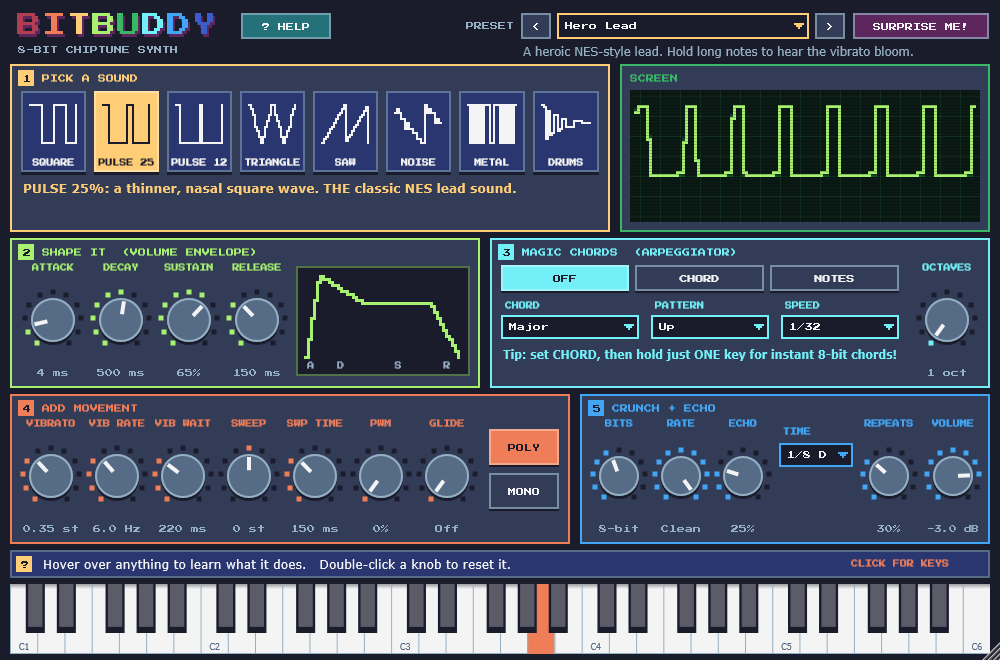
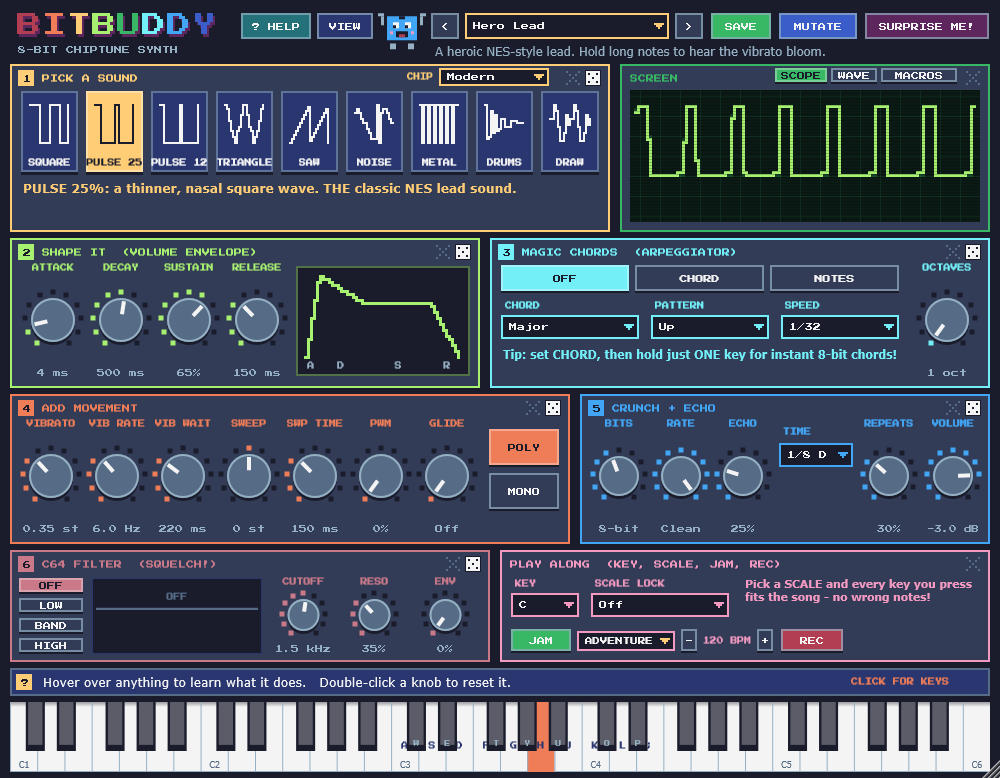
BitBuddy 1.1.0: docs, reports, release settings
- Version 1.1.0 (CMake, Android project, versionCode 110)
- Release job now waits for all four platforms (iOS added)
- Beginner's Guide "New in 1.1", README features + layout, release notes,
  share-package READ ME tips, workflow notes (timeline, gotchas, 1.1 cleanup)
- install-plugin.ps1 also installs the app + a Start-menu shortcut
- Reports: 77/77 audio, 10/10 focus + layout, pluginval L10 OK, 0 warnings

diff --git a/docs/WORKFLOW-NOTES.md b/docs/WORKFLOW-NOTES.md
@@ -37,6 +37,18 @@ criteria, and a reusable checklist so the *next* audio-plugin project starts fas
 | 26 | Android: `android/BitBuddy.jucer` (JUCE CMake can't do Android) | Projucer → Gradle APK in CI + Android 14 emulator smoke test; zero permissions | – |
 | 27 | iOS: CMake Xcode build, AUv3 + app | CI simulator build + iPad simulator smoke test (device install needs an Apple account) | – |
 | 28 | App icon + touch UI (tap = help, fit-to-screen) | one `assets/icon.png` for all platforms | – |
+| 29 | CI fixes: Projucer `useAppConfig="0"`, Android launch activity, iOS app path; macOS runner capacity re-runs | **v1.0.1 released** on all 4 platforms (Windows/Mac zips + APK) | GitHub Mac runners failed to start twice (capacity, not code) |
+| 30 | 1.1 on a feature branch (release stays as tested) | user: "build all of these in the order you best see fit" | – |
+| 31 | Scale Lock + Smart chords (`Scales.h`, key→note map in the engine) | 52/52; static_asserts on the music theory | test expectation wrong once (B→C, not A, in A minor penta) |
+| 32 | Piano shows the scale + computer-key letters | snapshot review | – |
+| 33 | My Presets, per-section dice, MUTATE | 56/56 | – |
+| 34 | C64 filter (TPT SVF + envelope) as a self-contained `Box` | 61/61 | – |
+| 35 | DRAW wave, console modes, macros | 64 → 68 → 74/74 | NES-triangle test window too early (test bug) |
+| 36 | RECORD (WAV + MIDI) + JAM band | 75 → 77/77 | crash cymbal needs ~4 s to fade (test window) |
+| 37 | BIT mascot + 4 colour themes (palette swap + live rebuild) | theme snapshots | – |
+| 38 | User asked mid-way: hideable / movable boxes + VIEW menu | every section → `Box`; flow layout; window reshapes; layout saved | a PowerShell edit script carried on after an exception and deleted 141 lines (rebuilt from context; §4) |
+| 39 | Cleanup + efficiency pass (§8b) | idle back to 1.0 speed, 3 save/load paths → 1, 0 warnings | benchmark noise from other apps (§4) |
+| 40 | Mutation tests on the new code | 2/2 caught (drawing overwritten → 1 FAIL; knob changes ignored → 9 FAIL) | – |
 
 ---
 
@@ -65,6 +77,11 @@ These would have removed guesswork or round-trips. Ask them in **one** message, 
     for after the Windows build. Knowing up front means touch-friendly UI, an app icon, and CI from day one.
 14. **Public or private repo, and do you have an Apple Developer account ($99/yr) or an Android phone?**
     Decides CI cost (macOS minutes are 10× on private repos), the license, and whether iOS can be shared.
+15. **Fixed layout or customisable?** Hideable / movable boxes were asked for after 9 features were built
+    with absolute positions; every section had to be turned into a box. Building sections as self-contained
+    components from day one makes this nearly free.
+16. **Which features belong in the app only?** (Jam, Record: a DAW already has tracks and recording.)
+    Decide before the UI is laid out, so the plugin view doesn't show dead controls.
 
 ---
 
@@ -151,6 +168,25 @@ These would have removed guesswork or round-trips. Ask them in **one** message, 
   `build-ios/BitBuddy_artefacts/<config>/Standalone/BitBuddy.app` (no `iphonesimulator` in the path).
 - **macOS runners can fail to start** ("not acquired by Runner … even after multiple attempts" = GitHub
   capacity, not your code). Just re-run; check the job's annotations before debugging anything.
+- **PowerShell 5.1 mangles double quotes in native-command arguments** (`git commit -m "... \"x\" ..."`
+  became stray pathspecs). Write the message to a file and use `git commit -F file`.
+- **PowerShell variables are case-insensitive:** a loop variable `$h` silently overwrote `$H` (the home folder).
+- **`System.Web.Script.Serialization` dictionaries need `.ContainsKey()`** in PowerShell (`.Contains()` is an
+  explicit interface member and fails).
+- **A script that edits files must stop on the first error** (`$ErrorActionPreference = 'Stop'` or an explicit
+  `throw`): one carried on after a missing input file and replaced 141 lines with nothing. Recovered because
+  the lines had just been read; otherwise `git checkout` the file.
+- **Benchmarks are noisy when other apps are busy:** compare a change against a reference scenario measured in
+  the *same* run (here: idle), and repeat 2-3 times before believing a 10% difference.
+- **Test the plugin as the app:** `AudioProcessor::setTypeOfNextNewPlugin (wrapperType_Standalone)` before
+  constructing the processor shows app-only UI (JAM / REC) in snapshots and UI tests.
+- **Tests must not touch the user's settings:** BitBuddy's settings file (theme, layout) has a test override
+  (`bb::useSettingsFile`).
+- **After changing the version, delete `build/BitBuddy_artefacts/JuceLibraryCode/BitBuddy_resources.rc`:** JUCE
+  doesn't regenerate the Windows version resource, so the exe's file properties kept saying 1.0.1 (the plugin
+  code and VST3 moduleinfo did say 1.1.0). Clean CI builds are fine.
+- **A desktop test window's native title bar skews its outer size** under a fixed aspect ratio; check the
+  constrainer's ratio instead of the window size.
 - **Projucer's Android defaults request INTERNET, READ_MEDIA_*, storage and notification permissions.**
   Turn off `androidInternetNeeded`, `androidReadMedia*Permission`, `androidExternalWriteNeeded`,
   `androidPushNotifications` → zero permissions.
@@ -237,6 +273,8 @@ For instruments, add an interaction test for the main play loop from day one.
 | pluginval L10 | **SUCCESS** (16 s) | |
 | After cleanup pass | **46 / 46**, focus 9/9, pluginval OK | `docs/reports/` |
 | Mutation | **3 / 3 caught** | |
+| 1.1 (all features + cleanup) | **77 / 77**, focus + layout 10/10, 0 warnings | `docs/reports/` |
+| 1.1 mutation | **2 / 2 caught** | |
 
 Root causes of the run-1 failures:
 
@@ -315,18 +353,25 @@ mutant (naive idle) → echo −120 dB = FAIL; fix (stay awake for the echo's fu
 Not done (on purpose): dropping the static C++ runtime (+~0.3 MB, but needed so it runs on any PC);
 disabling JUCE's hidden MIDI-CC parameters (needed for mod wheel / pitch bend in VST3).
 
-## 9. Fun-factor ideas (ranked by fun per effort)
+### 8b. 1.1 cleanup + efficiency pass
 
-1. **Scale Lock + Smart Chords**: every key snaps to a chosen key/scale (no wrong notes), and CHORD mode
-   picks major/minor automatically per scale degree (A → Am, F → F...). Small effort, big beginner payoff.
-2. **Jam Mode**: a built-in drums + bass + chords loop in the standalone to noodle a melody over.
-3. **Record button**: save what you played in the standalone as WAV + MIDI (no DAW needed).
-4. **Draw your own wave**: Game Boy "wave channel": draw a 32-step waveform on the SCREEN.
-5. **Instrument macros**: FamiTracker-style volume / arpeggio / pitch / duty sequences drawn as bars.
-6. **My Presets + per-section dice + Mutate** (nudge a sound instead of fully randomising).
-7. **C64 SID-style resonant filter** for squelchy basses.
-8. **Visual fun**: letter labels on the piano keys, a pixel mascot that dances to the notes, Game Boy-green / CRT themes.
-9. **Console modes**: NES / Game Boy / C64 voicing presets with each chip's limits.
+| Metric | Before (1.1 features done) | After | How |
+|---|---|---|---|
+| Idle, no notes | 2,829× real time (0.035 %) | **~3,800×** (0.026 %, = 1.0.1) | engine settings re-read only when a knob / drawing / macro / tempo changes (parameter listener + dirty flag) instead of every block |
+| 8-voice chords | ~108× (relative to idle) | ~15 % faster | one chord-shape lookup, a plain fast path (no chip mode, no macros), macro stepping moved out of line |
+| Save / load of drawings + macros | 3 hand-written copies (project, your presets, factory presets) | **1** `writeExtras` / `readExtras` pair | |
+| Small duplicates | `addFloat` + `addFloatV2`, 3 "choice index" formulas, 2 step-fill loops, BIT copying the audio a 2nd time, unused `JamBand::getStep` | 1 each / removed | |
+| Test code | repeated preset lookups, PNG writing, a 2nd direct-render loop | `programIndex`, `writePng`, `renderDirect` | |
+| Binary size | VST3 6.68 MB with all 1.1 features | same (1.0.1: 6.73 MB) | JUCE dominates; the features cost ~nothing |
+
+*Lesson again: the "skip work when nothing changed" optimisation got its own mutation test (ignore knob
+changes → 9 tests fail).*
+
+## 9. Fun-factor ideas: all built in 1.1
+
+All nine are in 1.1, in this order (each enables the next): Scale Lock + Smart chords → piano scale
+display + key letters → My Presets / dice / Mutate → C64 filter → DRAW wave → console modes → macros →
+RECORD → JAM → BIT + themes, then (user request) hideable / movable boxes + VIEW.
 
 ## 10. Possible next steps
 
@@ -334,6 +379,7 @@ disabling JUCE's hidden MIDI-CC parameters (needed for mod wheel / pitch bend in
   The script now verifies the copy by hash (elevated processes don't report failure back).
 - Steinberg VST3 validator (build from the full VST3 SDK, pass to pluginval `--vst3validator`).
 - CLAP build via `clap-juce-extensions` (native in Bitwig/REAPER/FL Studio).
-- GitHub Actions CI: build + `--test` + pluginval on every push; a macOS runner for an AU build.
-- GitHub Release with a zipped `BitBuddy.vst3` + standalone `.exe`.
-- User presets (save your own sounds) and a per-step "tracker" arpeggio editor.
+- ~~GitHub Actions CI~~, ~~GitHub Release~~, ~~user presets~~, ~~macro (tracker-style) editor~~: done.
+- Share recordings from the desktop app (email / drag out), a recording "count-in".
+- Jam: more styles, a song-structure mode (verse / chorus), MIDI export of the band.
+- iOS: share via TestFlight (needs an Apple Developer account).

diff --git a/docs/BEGINNERS-GUIDE.md b/docs/BEGINNERS-GUIDE.md
@@ -128,6 +128,8 @@ your DAW.
    Jumping up an octave and back is a classic NES bass move.
 4. **Chords** (*Major/Minor Chord Arp*): hold ONE key per chord. A good first progression:
    **A minor → F → C → G** (use *Minor Chord Arp* for the A, *Major Chord Arp* for the others).
+   **Easier:** pick the *Smart Chords* preset, set **KEY = A** and **SCALE LOCK = Minor**, and just press
+   A, F, C, G: BitBuddy picks minor or major for you.
 5. **Melody** (*Hero Lead*): short notes, then a long note at the end of each phrase so the
    delayed vibrato can bloom.
 6. **Mix:** lead loudest, drums and bass next, chords quieter (lower BitBuddy's VOLUME).
@@ -139,7 +141,8 @@ your DAW.
 
 | Control | What it does |
 |---|---|
-| **Wave** | The raw sound: Square, Pulse 25%, Pulse 12.5%, Triangle, Saw, Noise, Metal Noise, Drum Kit |
+| **Wave** | The raw sound: Square, Pulse 25%, Pulse 12.5%, Triangle, Saw, Noise, Metal Noise, Drum Kit, **Draw** (your own) |
+| **Chip** | Modern (no limits), or behave like a real **NES**, **Game Boy** or **C64** |
 | **Attack / Decay / Sustain / Release** | Volume shape of each note: fade-in, drop, hold level, fade-out |
 | **Arp: Off / Chord / Notes** | Chord = one key plays a fast chord. Notes = held keys play as a pattern |
 | **Chord / Pattern / Speed / Octaves** | Which chord, what order, how fast (tempo-synced or 15/30/60 Hz), how wide |
@@ -150,7 +153,61 @@ your DAW.
 | **Bits / Rate** | Lo-fi crunch: fewer bits, lower sample rate |
 | **Echo / Time / Repeats** | Ping-pong echo, tempo-synced |
 | **Volume** | Output level. A gentle limiter stops loud chords from crackling |
+| **C64 Filter: Off / Low / Band / High, Cutoff, Reso, Env** | The squelchy Commodore 64 filter; Env makes it "wow" on every note |
+| **Key / Scale Lock** | Every key you press snaps into the scale: no wrong notes |
+| **Jam / Style / Tempo** (app) | A backing band (drums, bass, chords) in your key |
+| **Rec** (app) | Records a WAV (sound) + MIDI (notes) of what you play |
+| **Screen: Scope / Wave / Macros** | Watch the sound, draw your own wave, or draw macros |
+| **Save / Mutate / dice** | Keep your sound as a preset; nudge it; re-roll one section |
+| **View** | Show / hide boxes (drag a box's title to move it) |
 | **Mod wheel / Pitch bend / Sustain pedal** | All supported from a MIDI keyboard |
 
 Hover over any control in BitBuddy and the help bar at the bottom explains it.
 Double-click a knob to reset it.
+
+---
+
+## 6. New in 1.1: the fun stuff
+
+**No wrong notes (Scale Lock).** In the PLAY ALONG box (bottom right), pick a **KEY** (the song's home
+note; C is fine) and a **SCALE LOCK** (Major = happy, Minor = sad, Penta = can't miss, Dorian = adventure,
+Harm. Minor = spooky). Now every key you press snaps to a note that fits. The piano dims the notes that
+aren't in the scale and marks the home note pink.
+
+**Smart chords.** Set MAGIC CHORDS to **CHORD** and the chord type to **SMART**: every key plays the chord
+that belongs to it in your scale (in C major: C → C major, D → D minor, B → B diminished).
+
+**Jam with a band (BitBuddy app).** Press **JAM**: drums, bass and chords start playing in your key.
+Pick a style (Adventure, Dungeon, Racing, Chill) and a tempo, turn on Scale Lock, and make up a melody.
+Press **REC** to record it: you get a WAV file (send it to a friend!) and a MIDI file of your notes in
+*Music → BitBuddy Recordings* (press **SHOW** to open the folder; **SHARE** on phones).
+
+**Draw your own wave.** Pick the **DRAW** wave: the SCREEN turns into a drawing board. Click and drag to
+draw one cycle of the sound - 32 steps, 16 levels, exactly like the Game Boy's "wave channel". Smooth
+shapes sound soft, jagged shapes buzzy. SINE / TRI / SAW / SQR / RND give you a starting point.
+
+**Macros (like the music tracker FamiTracker).** Click **MACROS** on the SCREEN. A macro is a little
+pattern that plays from the start of every note, 60 steps a second:
+- **VOL**: the volume of each step: fade-outs, stutters, fake echoes.
+- **ARP**: notes added at each step: 0, 4, 7 looping is the classic NES chord.
+- **PITCH**: tiny bends: scoops into notes, warbles.
+- **DUTY**: the pulse width changing as the note plays.
+
+Turn a lane **ON**, draw bars, set **LEN** (how many steps), and click the strip at the bottom to make it
+loop from that step. Try the *Macro Chord Blip* and *Macro Stutter Lead* presets to see examples.
+
+**C64 filter.** Box 6 adds the Commodore 64's resonant filter. **LOW** + low **CUTOFF** + some **RESO**
++ **ENV** = rubbery "wow" basses (try the *C64 Squelch Bass* preset).
+
+**Chip modes.** The **CHIP** menu (top of box 1) makes BitBuddy behave like real hardware: the **NES** and
+**Game Boy** only play 2 notes at once, have 16 volume steps and their own slightly-off tuning; the NES
+triangle can't fade. It's how the old music really sounded (try *Real NES Lead*).
+
+**Your own presets, dice and MUTATE.** Press **SAVE** to keep a sound (it shows under MY PRESETS in the
+preset menu). The little **dice** on each box re-rolls just that part. **MUTATE** nudges every knob a
+little - press it a few times to let a sound evolve.
+
+**Make it yours.** Click **BIT** (the little chip next to VIEW - it dances when you play) to change the
+colours: Sweetie 16, Game Boy, Amber CRT or NES. Use **VIEW** to hide boxes you don't use, and drag a
+box by its title bar to move it. Hidden boxes keep working; VIEW tells you if one is still changing
+the sound.

diff --git a/README.md b/README.md
@@ -24,15 +24,23 @@ is quick and fun even if you've never made music before.
 
 ## Features
 
-- **8 chip sounds:** Square, Pulse 25%, Pulse 12.5%, 4-bit Triangle, Saw, LFSR Noise,
-  "Metal" short-mode noise (tuned to your keys), and a 12-piece synthesized **Drum Kit**
+- **9 chip sounds:** Square, Pulse 25%, Pulse 12.5%, 4-bit Triangle, Saw, LFSR Noise,
+  "Metal" short-mode noise (tuned to your keys), a 12-piece synthesized **Drum Kit**, and **DRAW**:
+  draw your own 32-step, 4-bit wave like the Game Boy's wave channel
+- **Chip modes:** Modern, or real **NES / Game Boy / C64** behaviour (note limits, 4-bit volume steps,
+  the chips' own pitch tables, on/off NES triangle, 16-speed NES noise, output tone)
 - **Magic Chords:** hold one key to get the classic fast-arpeggio chiptune chord
-  (9 chord types, 5 patterns, tempo-synced or 15/30/60 Hz "frame rate" speeds),
+  (9 chord types + **SMART** chords that follow your key, 5 patterns, tempo-synced or 15/30/60 Hz),
   plus a held-notes arpeggiator
+- **Scale Lock:** pick a key + scale (8 scales) and every note you play fits; the piano shows the scale
+- **Instrument macros** (FamiTracker style): VOL / ARP / PITCH / DUTY step sequences at 60 steps/s with loops
+- **C64 filter:** resonant low / band / high pass with a per-note envelope
 - **Movement:** delayed vibrato, pitch sweeps (lasers, jumps, kicks), PWM, glide, mono/poly
 - **Crunch + Echo:** bit depth, sample-rate reduction, tempo-synced ping-pong echo
-- **21 presets**, including leads, bass, chords, drums and sound effects (Coin, Jump, Laser, Power Up, Explosion)
-- **SURPRISE ME!** button for random-but-musical sounds
+- **27 presets**, including leads, bass, chords, drums, sound effects, and demos of every 1.1 feature
+- **My Presets** (save your own), **SURPRISE ME!**, per-section **dice** and **MUTATE**
+- **In the app:** **JAM** (a drums + bass + chords band in your key, 4 styles) and **REC** (WAV + MIDI)
+- **Your layout:** hide boxes, drag them around (**VIEW** menu), 4 colour themes, and BIT the dancing mascot
 - **Built-in help:** hover any control for a plain-English explanation; a numbered 1–5 layout walks you through making a sound
 - Live waveform "screen", on-screen keyboard, and computer-keyboard playing that stays active while you
   tweak knobs (a **KEYS ON** indicator shows when your letter keys are playing)
@@ -88,8 +96,8 @@ That one script builds everything (Release) and runs every check, writing report
 
 | Check | What it proves |
 |---|---|
-| Audio tests (`test-results.txt`) | 46 tests that load the real VST3 like a DAW: tuning, arpeggiators, drums, presets, save/restore, echo tails, limiter, CPU |
-| Focus test (`focus-test.txt`) | opens a real window, simulates clicks, checks your computer keys keep playing |
+| Audio tests (`test-results.txt`) | 77 tests that load the real VST3 like a DAW: tuning, arpeggiators, drums, presets, save/restore, echo tails, limiter, Scale Lock, Smart chords, filter, chip modes, macros, drawn waves, Jam band, recording, My Presets, CPU |
+| Focus + layout test (`focus-test.txt`) | opens a real window, simulates clicks, checks your computer keys keep playing; hides, moves and resets boxes |
 | Benchmark (`benchmark.txt`) | CPU cost of chords, a lead, drums and idle |
 | [pluginval](https://github.com/Tracktion/pluginval) (`pluginval.txt`) | industry plugin validator at strictness level 10 |
 
@@ -108,13 +116,16 @@ Re-render the demo song and MIDI parts:
 
 ```
 src/            the plugin
-  ChipEngine.*        the sound chip: oscillators, LFSR noise, arpeggiators, drums
-  Effects.h           crunch (bit/rate reduction), ping-pong echo, DC blocker
+  ChipEngine.*        the sound chip: oscillators, LFSR noise, arpeggiators, drums, macros, chip modes
+  Scales.h            scales, Scale Lock snapping, Smart-chord triads
+  Effects.h           C64 filter, console tone, crunch, ping-pong echo, DC blocker
+  JamBand.*           the JAM backing band (3 more chip engines + a step sequencer)
+  Recorder.*          REC: WAV + MIDI recording on a background thread
   Parameters.*        every knob the DAW can see and automate
-  Presets.*           the 21 factory presets
-  PluginProcessor.*   glue between the DAW, MIDI and the engine; save/load
-  PluginEditor.*      the UI (sections 1-5, scope, keyboard, help)
-  RetroLookAndFeel.*  pixel font, palette, LED knobs
+  Presets.*           the 27 factory presets
+  PluginProcessor.*   glue between the DAW, MIDI and the engine; save/load; My Presets
+  PluginEditor.*      the UI (boxes, screen editors, keyboard, help, BIT, layout)
+  RetroLookAndFeel.*  pixel font, colour themes, LED knobs, settings file
 tests/TestHost.cpp  automated tests, benchmark, demo renderer, UI snapshots
 scripts/            build-and-test, install-plugin, make-share-package
 assets/             pixel font + its license

diff --git a/.github/RELEASE_NOTES.md b/.github/RELEASE_NOTES.md
@@ -1,3 +1,13 @@
+## ✨ New in 1.1
+
+- **Scale Lock** + **Smart chords**: pick a key and scale, and every note (and chord) fits
+- **JAM**: a drums + bass + chords band in your key to play along with (BitBuddy app)
+- **REC**: record what you play as WAV + MIDI (BitBuddy app)
+- **DRAW your own wave** (Game Boy style) and **macros** (FamiTracker style) on the SCREEN
+- **C64 filter**, **NES / Game Boy / C64 chip modes**
+- **My Presets**, per-section **dice**, **MUTATE**
+- **BIT** the dancing mascot, 4 colour themes, and boxes you can hide and move (**VIEW**)
+
 ## 🎮 Download BitBuddy
 
 | Your computer | Download |
@@ -25,11 +35,12 @@ takes you from zero to your first chiptune song.
 
 - The **BitBuddy app** (plays on its own, no music software needed)
 - The **plugin** for music software: VST3 (Windows + Mac) and Audio Unit (Mac: GarageBand, Logic)
-- 21 presets, a demo song with MIDI parts to remix, and the full source code
+- 27 presets, a demo song with MIDI parts to remix, and the full source code
 
 ## Tested on every build
 
-46 automated audio tests (tuning, arpeggios, drums, presets, save/reload, CPU) ·
+77 automated audio tests (tuning, arpeggios, Scale Lock, filter, chip modes, macros, Jam, recording,
+presets, save/reload, CPU) + a UI test that clicks through the real window ·
 [pluginval](https://github.com/Tracktion/pluginval) at its strictest level ·
 Apple's `auval` Audio Unit validator on Mac.
 
